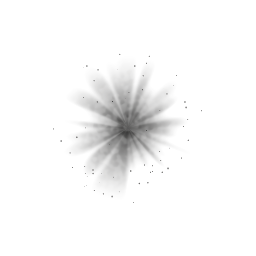
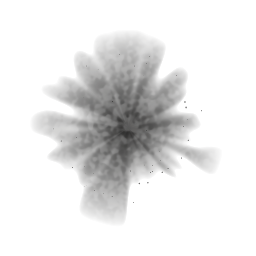
A near shot's soot reads as a starburst round the hole
The soot map's darkness reached only 2 cm from the hole, under the
torn hole's own broken plaster, so an arm's-length shot showed its
grains and hardly any soot. Its profile reaches further and falls off
slower now (WEAPONFX holds it).

Claude-Session: https://claude.ai/code/session_014EE6XVG5YmwCZ7DykBkVvC

Changed region(s): [[0.125, 0.125, 0.8438, 0.875]]

diff --git a/tools/weapon_fx.py b/tools/weapon_fx.py
@@ -345,8 +345,8 @@ def soot(seed=0, n=256):
     r = np.sqrt(u * u + v * v)
     a = np.arctan2(v, u)
     fan = polar(spectral(256, 2.0, seed * 7 + 11, lo=3.0, hi=30), a, r, 1, 0.06)
-    reach = 0.55 * (0.8 + 0.25 * np.tanh(fan))
-    sooty = np.clip(1.0 - r / reach, 0.0, 1.0) ** 1.4 * (0.88 + 0.12 * np.tanh(spectral(n, 1.8, seed * 7 + 12, lo=4.0, hi=50)))
+    reach = 0.74 * (0.8 + 0.25 * np.tanh(fan))
+    sooty = np.clip(1.0 - r / reach, 0.0, 1.0) ** 0.75 * (0.88 + 0.12 * np.tanh(spectral(n, 1.8, seed * 7 + 12, lo=4.0, hi=50)))
     specks = np.zeros((n, n))
     for i in range(70):                                         # a few burnt grains caught in the smoke
         rr = 0.6 * np.sqrt(rng.uniform(0, 1)) ** 0.8
